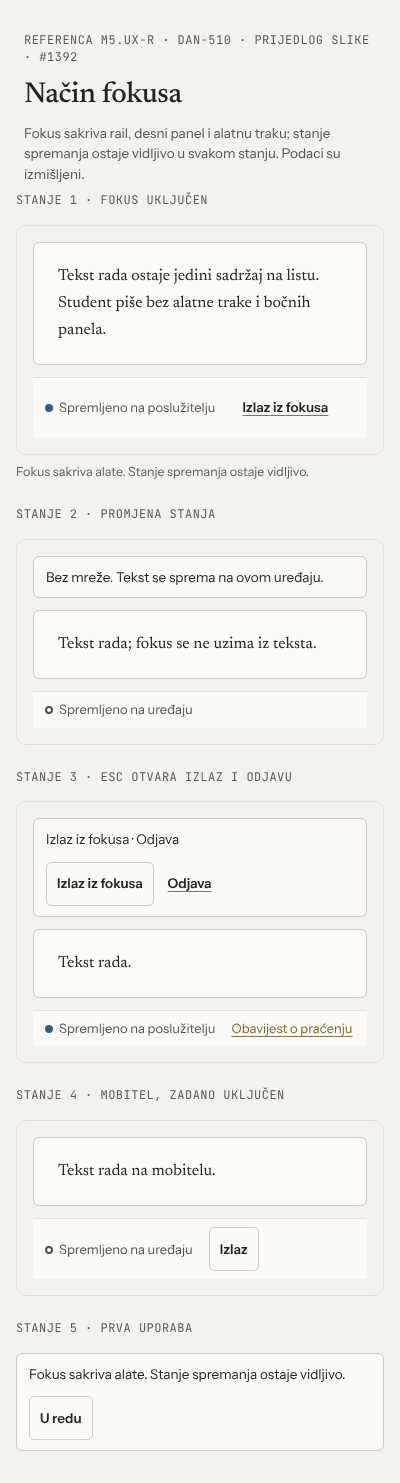
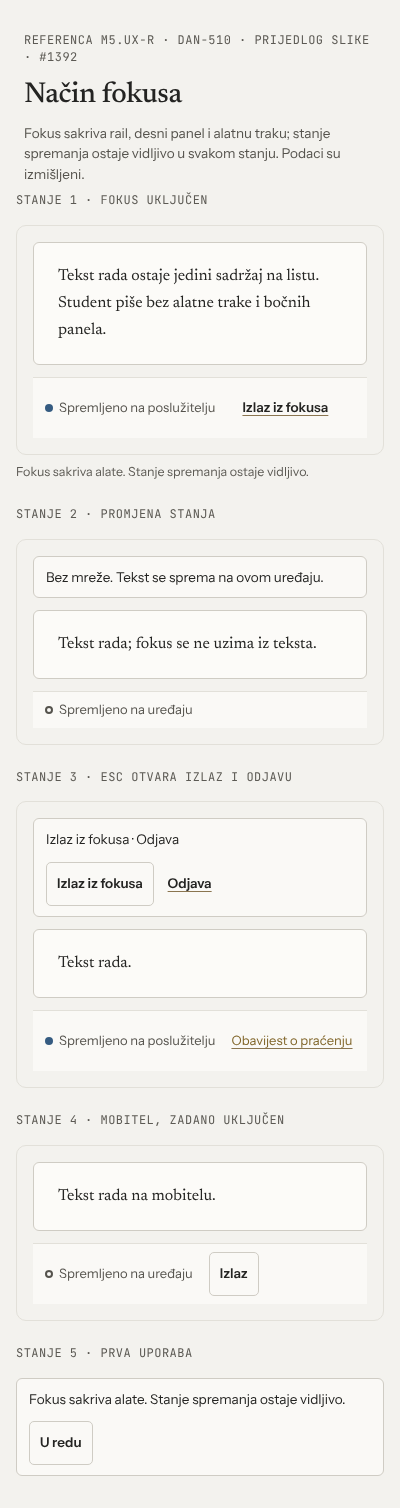
docs: palette-bound checkboxes and 44px label and status links in M5 reference (DAN-510)
Claude-Session: https://claude.ai/code/session_011GCKG6LMy3uswLDwXF1SrX

diff --git a/docs/design/ductura/m5-reference/reference.css b/docs/design/ductura/m5-reference/reference.css
@@ -21,6 +21,7 @@
   --synced: #355b81;
 }
 * { box-sizing: border-box; }
+input[type="checkbox"] { accent-color: var(--accent); width: 16px; height: 16px; margin: 0 8px 0 0; }
 body { margin: 0; background: var(--ground); color: var(--ink); font: 13.5px/1.5 var(--ff-ui); }
 h1, h2, h3 { font-family: var(--ff-display); font-weight: 500; letter-spacing: -0.015em; margin: 0; }
 p { margin: 0; }
@@ -106,6 +107,8 @@ a { color: var(--accent); text-decoration: underline; text-decoration-color: var
   .workspace { grid-template-columns: 1fr; }
   .workspace .rail { border-right: 0; border-bottom: 1px solid var(--rule-2); }
   .btn, .btn.small, .panel-top .btn.small, .item .acts .btn.small, .statusbar .btn.small, .input { min-height: 44px; }
+  label:has(> input[type="checkbox"]) { display: flex; align-items: center; min-height: 44px; }
+  .statusbar a { display: inline-flex; align-items: center; min-height: 44px; min-width: 44px; }
   .panel a, .rail a { display: inline-flex; align-items: center; min-height: 44px; min-width: 44px; }
   .tag, .field label, .statusbar, .src { font-size: 13px; }
 }
